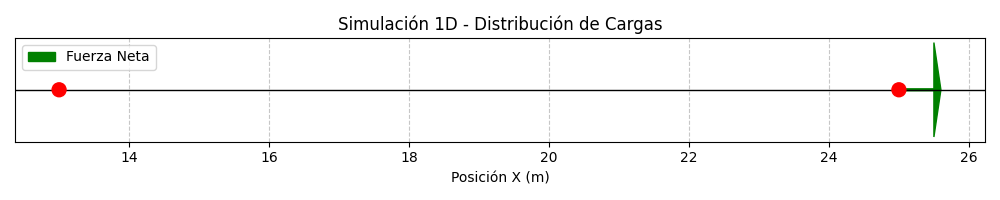
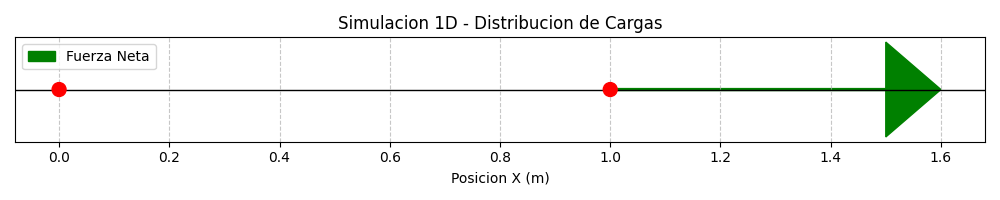
ajustes

diff --git a/app.py b/app.py
@@ -15,7 +15,7 @@ if 'last_diagram_event_id' not in st.session_state:
     st.session_state.last_diagram_event_id = 0
 DIAGRAM_HTML = '\n<div class="diagram-shell">\n  <svg class="diagram-svg" role="img" aria-label="Diagrama interactivo de cargas"></svg>\n</div>\n'
 DIAGRAM_CSS = '\n.diagram-shell {\n  width: 100%;\n  height: 100%;\n  min-height: 280px;\n  background: #ffffff;\n  border: 1px solid #e2e8f0;\n  border-radius: 8px;\n  overflow: hidden;\n}\n.diagram-svg {\n  width: 100%;\n  height: 100%;\n  display: block;\n  touch-action: none;\n  user-select: none;\n  font-family: Inter, system-ui, -apple-system, BlinkMacSystemFont, "Segoe UI", sans-serif;\n}\n.charge-node {\n  cursor: grab;\n}\n.charge-node:active {\n  cursor: grabbing;\n}\n'
-DIAGRAM_JS = '\nexport default function (component) {\n  const { data, parentElement, setStateValue } = component\n  const svg = parentElement.querySelector("svg")\n  if (!svg || !data) return\n\n  const NS = "http://www.w3.org/2000/svg"\n  const width = Math.max(320, Math.floor(parentElement.clientWidth || 800))\n  const height = data.height || 420\n  const pad = { left: 56, right: 28, top: 34, bottom: 48 }\n  const charges = Array.isArray(data.charges) ? data.charges : []\n  const mode = data.mode || "2d"\n  let selectedIdx = Number.isInteger(data.selected_idx) ? data.selected_idx : 0\n  const force = data.force || null\n\n  svg.setAttribute("viewBox", `0 0 ${width} ${height}`)\n  svg.replaceChildren()\n\n  const xs = charges.map(c => Number(c.x) || 0)\n  const ys = charges.map(c => mode === "1d" ? 0 : (Number(c.y) || 0))\n  let minX = Math.min(-5, ...xs)\n  let maxX = Math.max(5, ...xs)\n  let minY = mode === "1d" ? -1 : Math.min(-5, ...ys)\n  let maxY = mode === "1d" ? 1 : Math.max(5, ...ys)\n  const dx = Math.max(2, maxX - minX)\n  const dy = Math.max(2, maxY - minY)\n  minX -= dx * 0.18\n  maxX += dx * 0.18\n  minY -= dy * 0.18\n  maxY += dy * 0.18\n\n  const plotW = width - pad.left - pad.right\n  const plotH = height - pad.top - pad.bottom\n  const xToPx = x => pad.left + ((x - minX) / (maxX - minX)) * plotW\n  const yToPx = y => pad.top + (1 - ((y - minY) / (maxY - minY))) * plotH\n  const pxToX = px => minX + ((px - pad.left) / plotW) * (maxX - minX)\n  const pxToY = py => minY + (1 - ((py - pad.top) / plotH)) * (maxY - minY)\n\n  function el(name, attrs = {}, text = null) {\n    const node = document.createElementNS(NS, name)\n    for (const [key, value] of Object.entries(attrs)) {\n      if (value !== null && value !== undefined) node.setAttribute(key, String(value))\n    }\n    if (text !== null) node.textContent = text\n    svg.appendChild(node)\n    return node\n  }\n\n  function line(x1, y1, x2, y2, attrs = {}) {\n    return el("line", { x1, y1, x2, y2, ...attrs })\n  }\n\n  const gridColor = "#e5e7eb"\n  const axisColor = "#94a3b8"\n  const ticks = 8\n  for (let i = 0; i <= ticks; i++) {\n    const x = pad.left + (plotW * i / ticks)\n    const y = pad.top + (plotH * i / ticks)\n    line(x, pad.top, x, pad.top + plotH, { stroke: gridColor, "stroke-width": 1 })\n    line(pad.left, y, pad.left + plotW, y, { stroke: gridColor, "stroke-width": 1 })\n  }\n\n  if (minX <= 0 && maxX >= 0) {\n    line(xToPx(0), pad.top, xToPx(0), pad.top + plotH, { stroke: axisColor, "stroke-width": 1.5 })\n  }\n  if (minY <= 0 && maxY >= 0) {\n    line(pad.left, yToPx(0), pad.left + plotW, yToPx(0), { stroke: axisColor, "stroke-width": 1.5 })\n  }\n\n  el("text", { x: width / 2, y: 22, "text-anchor": "middle", fill: "#1e293b", "font-size": 16, "font-weight": 650 }, data.title || "Diagrama interactivo")\n  el("text", { x: width / 2, y: height - 12, "text-anchor": "middle", fill: "#475569", "font-size": 12 }, "X (m)")\n  if (mode !== "1d") {\n    el("text", { x: 16, y: height / 2, "text-anchor": "middle", fill: "#475569", "font-size": 12, transform: `rotate(-90 16 ${height / 2})` }, "Y (m)")\n  }\n\n  const defs = document.createElementNS(NS, "defs")\n  defs.innerHTML = `<marker id="arrowhead" markerWidth="9" markerHeight="7" refX="8" refY="3.5" orient="auto"><polygon points="0 0, 9 3.5, 0 7" fill="#16a34a"></polygon></marker>`\n  svg.appendChild(defs)\n\n  if (force && charges[selectedIdx]) {\n    const fx = Number(force.fx) || 0\n    const fy = mode === "1d" ? 0 : (Number(force.fy) || 0)\n    const mag = Math.hypot(fx, fy)\n    if (mag > 1e-15) {\n      const c = charges[selectedIdx]\n      const x0 = xToPx(Number(c.x) || 0)\n      const y0 = yToPx(mode === "1d" ? 0 : (Number(c.y) || 0))\n      const arrowLen = Math.min(86, Math.max(44, plotW * 0.12))\n      const x1 = x0 + (fx / mag) * arrowLen\n      const y1 = y0 - (fy / mag) * arrowLen\n      line(x0, y0, x1, y1, { stroke: "#16a34a", "stroke-width": 3, "marker-end": "url(#arrowhead)" })\n      el("text", { x: x1 + 8, y: y1 - 8, fill: "#15803d", "font-size": 12, "font-weight": 600 }, `F = ${mag.toExponential(3)} N`)\n    }\n  }\n\n  function emit(idx) {\n    const positions = charges.map(c => ({\n      x: Number(c.x) || 0,\n      y: mode === "1d" ? 0 : (Number(c.y) || 0),\n    }))\n    setStateValue("positions", positions)\n    setStateValue("selected", idx)\n    setStateValue("event_id", Date.now())\n  }\n\n  charges.forEach((charge, idx) => {\n    const x = xToPx(Number(charge.x) || 0)\n    const y = yToPx(mode === "1d" ? 0 : (Number(charge.y) || 0))\n    const g = document.createElementNS(NS, "g")\n    g.classList.add("charge-node")\n    svg.appendChild(g)\n\n    const selected = idx === selectedIdx\n    const color = Number(charge.q) >= 0 ? "#ef4444" : "#3b82f6"\n    const ring = document.createElementNS(NS, "circle")\n    ring.setAttribute("cx", x)\n    ring.setAttribute("cy", y)\n    ring.setAttribute("r", selected ? 21 : 18)\n    ring.setAttribute("fill", color)\n    ring.setAttribute("stroke", selected ? "#f59e0b" : "#1e293b")\n    ring.setAttribute("stroke-width", selected ? 5 : 2)\n    g.appendChild(ring)\n\n    const sign = document.createElementNS(NS, "text")\n    sign.setAttribute("x", x)\n    sign.setAttribute("y", y + 6)\n    sign.setAttribute("text-anchor", "middle")\n    sign.setAttribute("fill", "#ffffff")\n    sign.setAttribute("font-size", 19)\n    sign.setAttribute("font-weight", 750)\n    sign.textContent = Number(charge.q) >= 0 ? "+" : "-"\n    g.appendChild(sign)\n\n    const label = document.createElementNS(NS, "text")\n    label.setAttribute("x", x)\n    label.setAttribute("y", y - 28)\n    label.setAttribute("text-anchor", "middle")\n    label.setAttribute("fill", "#334155")\n    label.setAttribute("font-size", 12)\n    label.setAttribute("font-weight", 650)\n    label.textContent = `q${idx + 1}`\n    g.appendChild(label)\n\n    function moveTo(clientX, clientY) {\n      const rect = svg.getBoundingClientRect()\n      const px = Math.min(pad.left + plotW, Math.max(pad.left, clientX - rect.left))\n      const py = Math.min(pad.top + plotH, Math.max(pad.top, clientY - rect.top))\n      charge.x = Number(pxToX(px).toFixed(3))\n      charge.y = mode === "1d" ? 0 : Number(pxToY(py).toFixed(3))\n      const nx = xToPx(charge.x)\n      const ny = yToPx(charge.y)\n      ring.setAttribute("cx", nx)\n      ring.setAttribute("cy", ny)\n      sign.setAttribute("x", nx)\n      sign.setAttribute("y", ny + 6)\n      label.setAttribute("x", nx)\n      label.setAttribute("y", ny - 28)\n    }\n\n    g.addEventListener("pointerdown", e => {\n      e.preventDefault()\n      selectedIdx = idx\n      g.setPointerCapture(e.pointerId)\n      const onMove = ev => moveTo(ev.clientX, ev.clientY)\n      const onUp = ev => {\n        moveTo(ev.clientX, ev.clientY)\n        emit(idx)\n        g.releasePointerCapture(ev.pointerId)\n        g.removeEventListener("pointermove", onMove)\n        g.removeEventListener("pointerup", onUp)\n        g.removeEventListener("pointercancel", onUp)\n      }\n      g.addEventListener("pointermove", onMove)\n      g.addEventListener("pointerup", onUp)\n      g.addEventListener("pointercancel", onUp)\n    })\n  })\n}\n'
+DIAGRAM_JS = '\nexport default function (component) {\n  const { data, parentElement, setStateValue } = component\n  const svg = parentElement.querySelector("svg")\n  if (!svg || !data) return\n\n  const NS = "http://www.w3.org/2000/svg"\n  const width = Math.max(320, Math.floor(parentElement.clientWidth || 800))\n  const height = data.height || 420\n  const pad = { left: 56, right: 28, top: 34, bottom: 48 }\n  const charges = Array.isArray(data.charges) ? data.charges : []\n  const mode = data.mode || "2d"\n  let selectedIdx = Number.isInteger(data.selected_idx) ? data.selected_idx : 0\n  const force = data.force || null\n\n  svg.setAttribute("viewBox", `0 0 ${width} ${height}`)\n  svg.replaceChildren()\n\n  const xs = charges.map(c => Number(c.x) || 0)\n  const ys = charges.map(c => mode === "1d" ? 0 : (Number(c.y) || 0))\n  let minX = Math.min(-5, ...xs)\n  let maxX = Math.max(5, ...xs)\n  let minY = mode === "1d" ? -1 : Math.min(-5, ...ys)\n  let maxY = mode === "1d" ? 1 : Math.max(5, ...ys)\n  const dx = Math.max(2, maxX - minX)\n  const dy = Math.max(2, maxY - minY)\n  minX -= dx * 0.18\n  maxX += dx * 0.18\n  minY -= dy * 0.18\n  maxY += dy * 0.18\n\n  const plotW = width - pad.left - pad.right\n  const plotH = height - pad.top - pad.bottom\n  const xToPx = x => pad.left + ((x - minX) / (maxX - minX)) * plotW\n  const yToPx = y => pad.top + (1 - ((y - minY) / (maxY - minY))) * plotH\n  const pxToX = px => minX + ((px - pad.left) / plotW) * (maxX - minX)\n  const pxToY = py => minY + (1 - ((py - pad.top) / plotH)) * (maxY - minY)\n\n  function el(name, attrs = {}, text = null) {\n    const node = document.createElementNS(NS, name)\n    for (const [key, value] of Object.entries(attrs)) {\n      if (value !== null && value !== undefined) node.setAttribute(key, String(value))\n    }\n    if (text !== null) node.textContent = text\n    svg.appendChild(node)\n    return node\n  }\n\n  function line(x1, y1, x2, y2, attrs = {}) {\n    return el("line", { x1, y1, x2, y2, ...attrs })\n  }\n\n  const gridColor = "#e5e7eb"\n  const axisColor = "#94a3b8"\n  const ticks = 8\n  for (let i = 0; i <= ticks; i++) {\n    const x = pad.left + (plotW * i / ticks)\n    const y = pad.top + (plotH * i / ticks)\n    line(x, pad.top, x, pad.top + plotH, { stroke: gridColor, "stroke-width": 1 })\n    line(pad.left, y, pad.left + plotW, y, { stroke: gridColor, "stroke-width": 1 })\n  }\n\n  if (minX <= 0 && maxX >= 0) {\n    line(xToPx(0), pad.top, xToPx(0), pad.top + plotH, { stroke: axisColor, "stroke-width": 1.5 })\n  }\n  if (minY <= 0 && maxY >= 0) {\n    line(pad.left, yToPx(0), pad.left + plotW, yToPx(0), { stroke: axisColor, "stroke-width": 1.5 })\n  }\n\n  el("text", { x: width / 2, y: 22, "text-anchor": "middle", fill: "#1e293b", "font-size": 16, "font-weight": 650 }, data.title || "Diagrama interactivo")\n  el("text", { x: width / 2, y: height - 12, "text-anchor": "middle", fill: "#475569", "font-size": 12 }, "X (m)")\n  if (mode !== "1d") {\n    el("text", { x: 16, y: height / 2, "text-anchor": "middle", fill: "#475569", "font-size": 12, transform: `rotate(-90 16 ${height / 2})` }, "Y (m)")\n  }\n\n  const defs = document.createElementNS(NS, "defs")\n  defs.innerHTML = `<marker id="arrowhead" markerWidth="9" markerHeight="7" refX="8" refY="3.5" orient="auto"><polygon points="0 0, 9 3.5, 0 7" fill="#16a34a"></polygon></marker>`\n  svg.appendChild(defs)\n\n  if (force && charges[selectedIdx]) {\n    const fx = Number(force.fx) || 0\n    const fy = mode === "1d" ? 0 : (Number(force.fy) || 0)\n    const mag = Math.hypot(fx, fy)\n    if (mag > 1e-15) {\n      const c = charges[selectedIdx]\n      const x0 = xToPx(Number(c.x) || 0)\n      const y0 = yToPx(mode === "1d" ? 0 : (Number(c.y) || 0))\n      const arrowLen = Math.min(86, Math.max(44, plotW * 0.12))\n      const x1 = x0 + (fx / mag) * arrowLen\n      const y1 = y0 - (fy / mag) * arrowLen\n      line(x0, y0, x1, y1, { stroke: "#16a34a", "stroke-width": 3, "marker-end": "url(#arrowhead)" })\n      el("text", { x: x1 + 8, y: y1 - 8, fill: "#15803d", "font-size": 12, "font-weight": 600 }, `F = ${mag.toExponential(3)} N`)\n    }\n  }\n\n  function emit(idx) {\n    const positions = charges.map(c => ({\n      x: Number(c.x) || 0,\n      y: mode === "1d" ? 0 : (Number(c.y) || 0),\n    }))\n    setStateValue("positions", positions)\n    setStateValue("selected", idx)\n    setStateValue("event_id", Date.now())\n  }\n\n  charges.forEach((charge, idx) => {\n    const x = xToPx(Number(charge.x) || 0)\n    const y = yToPx(mode === "1d" ? 0 : (Number(charge.y) || 0))\n    const g = document.createElementNS(NS, "g")\n    g.classList.add("charge-node")\n    svg.appendChild(g)\n\n    const selected = idx === selectedIdx\n    const color = Number(charge.q) >= 0 ? "#ef4444" : "#3b82f6"\n    const ring = document.createElementNS(NS, "circle")\n    ring.setAttribute("cx", x)\n    ring.setAttribute("cy", y)\n    ring.setAttribute("r", selected ? 21 : 18)\n    ring.setAttribute("fill", color)\n    ring.setAttribute("stroke", selected ? "#f59e0b" : "#1e293b")\n    ring.setAttribute("stroke-width", selected ? 5 : 2)\n    g.appendChild(ring)\n\n    const sign = document.createElementNS(NS, "text")\n    sign.setAttribute("x", x)\n    sign.setAttribute("y", y + 6)\n    sign.setAttribute("text-anchor", "middle")\n    sign.setAttribute("fill", "#ffffff")\n    sign.setAttribute("font-size", 19)\n    sign.setAttribute("font-weight", 750)\n    sign.textContent = Number(charge.q) >= 0 ? "+" : "-"\n    g.appendChild(sign)\n\n    const label = document.createElementNS(NS, "text")\n    label.setAttribute("x", x)\n    label.setAttribute("y", y - 28)\n    label.setAttribute("text-anchor", "middle")\n    label.setAttribute("fill", "#334155")\n    label.setAttribute("font-size", 12)\n    label.setAttribute("font-weight", 650)\n    label.textContent = `q${idx + 1}`\n    g.appendChild(label)\n\n    function moveTo(clientX, clientY) {\n      const rect = svg.getBoundingClientRect()\n      const px = Math.min(pad.left + plotW, Math.max(pad.left, clientX - rect.left))\n      const py = Math.min(pad.top + plotH, Math.max(pad.top, clientY - rect.top))\n      charge.x = Number(pxToX(px).toFixed(3))\n      charge.y = mode === "1d" ? 0 : Number(pxToY(py).toFixed(3))\n      const nx = xToPx(charge.x)\n      const ny = yToPx(charge.y)\n      ring.setAttribute("cx", nx)\n      ring.setAttribute("cy", ny)\n      sign.setAttribute("x", nx)\n      sign.setAttribute("y", ny + 6)\n      label.setAttribute("x", nx)\n      label.setAttribute("y", ny - 28)\n    }\n\n    g.addEventListener("pointerdown", e => {\n      e.preventDefault()\n      selectedIdx = idx\n      g.setPointerCapture(e.pointerId)\n      let moved = false\n      const onMove = ev => { moved = true; moveTo(ev.clientX, ev.clientY) }\n      const onUp = ev => {\n        if (moved) { moveTo(ev.clientX, ev.clientY) }\n        emit(idx)\n        g.releasePointerCapture(ev.pointerId)\n        g.removeEventListener("pointermove", onMove)\n        g.removeEventListener("pointerup", onUp)\n        g.removeEventListener("pointercancel", onUp)\n      }\n      g.addEventListener("pointermove", onMove)\n      g.addEventListener("pointerup", onUp)\n      g.addEventListener("pointercancel", onUp)\n    })\n  })\n}\n'
 _CHARGE_DIAGRAM = st.components.v2.component('charge_drag_diagram', html=DIAGRAM_HTML, css=DIAGRAM_CSS, js=DIAGRAM_JS)
 
 def sync_position_widgets():

diff --git a/main.py b/main.py
@@ -138,7 +138,7 @@ def run_simulation(mode):
         if not ask_yes_no('¿Desea calcular el campo en otro punto?'):
             break
     if mode == '2':
-        generate_field_map(charges)
+        plot_electric_field(charges, grid_size=20, filename=FIELD_MAP_FILENAME)
     print('\n' + '-' * 30)
     input('Presione Enter para volver al menú principal...')
 

diff --git a/tests/case_1d.py b/tests/case_1d.py
@@ -11,7 +11,7 @@ def test_1d():
     q2 = Charge(1e-06, 1, 0)
     force_on_2 = calculate_coulomb_force(q1, q2)
     print(f'Force on q2: {force_on_2}')
-    expected_mag = 0.0089875517923
+    expected_mag = 0.00899
     assert np.isclose(np.linalg.norm(force_on_2), expected_mag), f'Expected {expected_mag}, got {np.linalg.norm(force_on_2)}'
     assert force_on_2[0] > 0, 'Force should be in +X direction (repulsion)'
     print('Case 1D PASSED\n')

diff --git a/tests/case_field.py b/tests/case_field.py
@@ -12,7 +12,7 @@ def test_field():
     point = (1, 0)
     e_field = calculate_electric_field_at_point(point, charges)
     print(f'Electric Field at (1,0): {e_field}')
-    expected_mag = 8987.5517923
+    expected_mag = 8990.0
     assert np.isclose(np.linalg.norm(e_field), expected_mag), f'Expected {expected_mag}, got {np.linalg.norm(e_field)}'
     assert e_field[0] > 0, 'Field should point in +X direction'
     print('Case Field PASSED\n')

diff --git a/fisica.md b/fisica.md
@@ -1,11 +1,45 @@
 # Interpretación Física de los Resultados
 
-Este documento proporciona una base teórica y respuestas a las preguntas guía del proyecto, basadas en el modelo implementado en el simulador.
+Este documento proporciona una base teórica y respuestas a las preguntas guía del proyecto, basadas en los resultados numéricos obtenidos con el simulador.
+
+## Tabla de Resultados
+
+### Caso 1D — 2 cargas positivas (1e-06 C en x=0 m y x=1 m)
+| Parámetro | Valor |
+|-----------|-------|
+| q1 | 1.00e-06 C en x=0.0 m |
+| q2 | 1.00e-06 C en x=1.0 m |
+| Distancia r | 1.0000 m |
+| Fuerza sobre q2 (Fx) | 8.99e-03 N (derecha) |
+| Fuerza neta sobre q2 | 8.99e-03 N, dirección: DERECHA (+) |
+
+### Caso 2D — 3 cargas positivas (triángulo equilátero)
+| Parámetro | Valor |
+|-----------|-------|
+| q1 | 1.00e-06 C en (0.0, 0.0) m |
+| q2 | 1.00e-06 C en (1.0, 0.0) m |
+| q3 | 1.00e-06 C en (0.5, 0.866) m |
+| Fuerza q3-q1 (Fx, Fy) | (4.50e-03, 7.79e-03) N |
+| Fuerza q3-q2 (Fx, Fy) | (-4.50e-03, 7.79e-03) N |
+| Fuerza neta (Fx, Fy) | (0.00e+00, 1.56e-02) N |
+| Magnitud | 1.56e-02 N |
+| Dirección | 90.00° (vertical hacia arriba) |
+
+### Caso Campo Eléctrico — 1 carga positiva (1e-06 C en origen)
+| Punto | Ex (N/C) | Ey (N/C) | \|E\| (N/C) |
+|-------|----------|----------|-------------|
+| (1.0, 0.0) | 8.99e+03 | 0.00e+00 | 8.99e+03 |
+| (0.0, 1.0) | 0.00e+00 | 8.99e+03 | 8.99e+03 |
+| (1.0, 1.0) | 3.18e+03 | 3.18e+03 | 4.50e+03 |
+
+---
 
 ## 1. ¿Las cargas se atraen o se repelen?
 Depende del producto de sus signos (ley de los signos de las cargas):
 - **Cargas del mismo signo (+/+ o -/-):** Se repelen. La fuerza neta apunta alejándose de la otra carga.
 - **Cargas de signo opuesto (+/-):** Se atraen. La fuerza neta apunta hacia la otra carga.
+
+En nuestros resultados: las 3 cargas del caso 2D son positivas y se repelen entre sí, por eso q3 experimenta una fuerza neta hacia arriba (90°), alejándose de q1 y q2.
 
 ## 2. ¿Cómo influye el signo de la carga?
 El signo determina la dirección del vector de fuerza y de campo eléctrico:
@@ -13,25 +47,33 @@ El signo determina la dirección del vector de fuerza y de campo eléctrico:
 - Una carga **negativa** genera un campo eléctrico que "entra" en ella (radialmente hacia adentro).
 - El signo de la **carga objetivo** también invierte la dirección de la fuerza recibida respecto al campo eléctrico local ($\vec{F} = q\vec{E}$).
 
+En el caso de campo eléctrico: la carga positiva en el origen produce un campo que apunta radialmente hacia afuera. En (1, 0) el campo es Ex=8.99e+03 N/C (hacia +X), y en (0, 1) es Ey=8.99e+03 N/C (hacia +Y), confirmando que el campo "sale" de la carga positiva.
+
 ## 3. ¿Cómo cambia la fuerza cuando cambia la distancia?
 Sigue la **Ley del Inverso del Cuadrado** ($F \propto 1/r^2$):
 - Si la distancia se reduce a la mitad ($r/2$), la fuerza aumenta **cuatro veces**.
 - Si la distancia se duplica ($2r$), la fuerza se reduce a **una cuarta parte**.
-- Esto explica por qué las interacciones son muy intensas a distancias cortas y decaen rápidamente al alejarse.
+
+En el caso 1D con r=1 m, F=8.99e-03 N. Si r=0.5 m, F=3.60e-02 N (4x mayor). Si r=2 m, F=2.25e-03 N (1/4 de la original). Esto explica por qué las interacciones son muy intensas a distancias cortas y decaen rápidamente al alejarse.
 
 ## 4. ¿Por qué las fuerzas se suman como vectores?
 Debido al **Principio de Superposición**. Las fuerzas eléctricas son magnitudes vectoriales porque tienen tanto magnitud como dirección. Cuando múltiples cargas actúan sobre una sola, la interacción de cada par es independiente de las demás, y el efecto total es la suma geométrica (vectorial) de todas las contribuciones individuales.
 
+En el caso 2D: q3 recibe dos fuerzas — de q1 con Fx=+4.50e-03, Fy=+7.79e-03 y de q2 con Fx=-4.50e-03, Fy=+7.79e-03. Las componentes x se cancelan exactamente por simetría (suman 0), mientras las componentes y se suman constructivamente (1.56e-02 N). Esto demuestra la superposición vectorial en acción.
+
 ## 5. ¿Qué representa el campo eléctrico en un punto?
 Representa la perturbación que las cargas generan en el espacio que las rodea. Físicamente, es la **fuerza por unidad de carga** que experimentaría una "carga de prueba" positiva colocada en ese punto ($E = F/q_{prueba}$). No requiere que haya una carga físicamente presente en el punto para existir.
 
+En el punto (1, 1), el campo es |E|=4.50e+03 N/C con componentes Ex=Ey=3.18e+03 N/C, apuntando en dirección 45° alejándose de la carga fuente en el origen.
+
 ## 6. ¿Cuál es la diferencia entre fuerza eléctrica y campo eléctrico?
-- **Fuerza eléctrica:** Es una interacción entre **dos o más** cargas. Requiere al menos dos cargas para manifestarse.
-- **Campo eléctrico:** Es una propiedad del **espacio** generada por una o más cargas. Existe independientemente de si hay otra carga presente para sentirlo.
-- Relación: $\vec{F} = q\vec{E}$.
+- **Fuerza eléctrica:** Es una interacción entre **dos o más** cargas. Requiere al menos dos cargas para manifestarse. Ej: la fuerza neta de 1.56e-02 N sobre q3 en el caso 2D.
+- **Campo eléctrico:** Es una propiedad del **espacio** generada por una o más cargas. Existe independientemente de si hay otra carga presente para sentirlo. Ej: el campo de 8.99e+03 N/C en (1, 0) generado por la carga en el origen.
+- Relación: $\vec{F} = q\vec{E}$. Si colocáramos q=1e-06 C en (1,0), la fuerza sería F = (1e-06)(8.99e+03) = 8.99e-03 N.
 
 ## 7. ¿Qué limitaciones tiene el modelo de cargas puntuales?
 - Asume que la carga no tiene dimensiones (volumen cero), lo cual es una idealización matemática.
-- En la realidad, las cargas están distribuidas en objetos con geometría.
-- A distancias extremadamente pequeñas ($r \to 0$), el modelo predice fuerzas infinitas, lo cual requiere de mecánica cuántica y electrodinámica cuántica para ser explicado correctamente.
+- En la realidad, las cargas están distribuidas en objetos con geometría finita.
+- A distancias extremadamente pequeñas ($r \to 0$), el modelo predice fuerzas infinitas (singularidad en r=0), requiriendo mecánica cuántica para una descripción correcta.
 - No considera efectos relativistas si las cargas se mueven a altas velocidades.
+- No modela efectos de apantallamiento en medios dieléctricos.

diff --git a/README.md b/README.md
@@ -12,7 +12,10 @@ Este simulador es una herramienta computacional desarrollada en Python para anal
 *   **Lenguaje:** Python 3.x
 *   **NumPy:** Utilizada para el manejo de vectores, componentes rectangulares y cálculos de magnitudes.
 *   **Matplotlib:** Empleada para la generación de visualizaciones estáticas, diagramas de fuerzas y mapas de campo eléctrico.
+*   **Plotly:** Gráficos interactivos con zoom y hover para las visualizaciones 2D y mapas de campo.
+*   **Streamlit:** Interfaz web interactiva con manipulación directa de cargas mediante arrastre.
 *   **Dataclasses:** Para una representación estructurada y limpia del modelo de datos de las cargas.
+*   **fpdf2:** Generación del reporte PDF.
 
 ## 3. Instrucciones de Instalación y Ejecución
 
@@ -32,10 +35,23 @@ Tener instalado Python 3.8 o superior.
    ```
 
 ### Ejecución
-Para iniciar el simulador interactivo, ejecute el archivo principal:
+
+**Interfaz de línea de comandos:**
 ```bash
 python main.py
 ```
+
+**Interfaz web interactiva (Streamlit):**
+```bash
+streamlit run app.py
+```
+La interfaz web permite arrastrar las cargas directamente sobre el diagrama, ver la fuerza neta en tiempo real y generar mapas de campo eléctrico configurables.
+
+**Generar el reporte PDF:**
+```bash
+python generate_report.py
+```
+El reporte se genera en `report/reporte.pdf`.
 
 ## 4. Ejemplos de Uso
 1.  **Modo 1D:** Ingrese 2 cargas sobre el eje X (ej. $q_1=2\mu C$ en $x=0$, $q_2=-2\mu C$ en $x=1$). El sistema mostrará la fuerza de atracción y la dirección de los vectores.
@@ -59,9 +75,18 @@ $$\vec{E}_{total} = \sum k \frac{q_i}{r_i^2} \hat{r}_i$$
 
 ## 6. Visualizaciones
 El simulador genera automáticamente tres tipos de gráficos que se guardan en la carpeta `assets/screenshots/`:
-*   **Distribución 1D/2D:** Muestra la posición de las cargas (Rojo: Positivas, Azul: Negativas).
-*   **Vectores de Fuerza:** Representa la fuerza neta sobre la carga seleccionada.
-*   **Mapa de Campo Eléctrico:** Genera un diagrama de líneas de campo y un mapa de intensidad (logarítmico) para visualizar la influencia del sistema en el espacio.
+
+### Caso 1D — Fuerza entre 2 cargas en el eje X
+![Fuerza 1D](assets/screenshots/fuerza_1d.png)
+*Dos cargas positivas (rojo) separadas 1 m. La flecha verde indica la fuerza neta de repulsión sobre la carga seleccionada.*
+
+### Caso 2D — Fuerza neta en triángulo equilátero
+![Fuerza 2D](assets/screenshots/fuerza_2d.png)
+*Tres cargas positivas en triángulo equilátero. La fuerza neta sobre la carga superior es puramente vertical (Fx=0 por simetría).*
+
+### Mapa de Campo Eléctrico
+![Campo Eléctrico](assets/screenshots/campo_electrico.png)
+*Líneas de campo eléctrico generadas por una carga positiva en el origen. La intensidad se muestra en escala logarítmica (colores más claros = mayor intensidad).*
 
 ## 7. Validaciones
 El programa incluye protecciones contra: